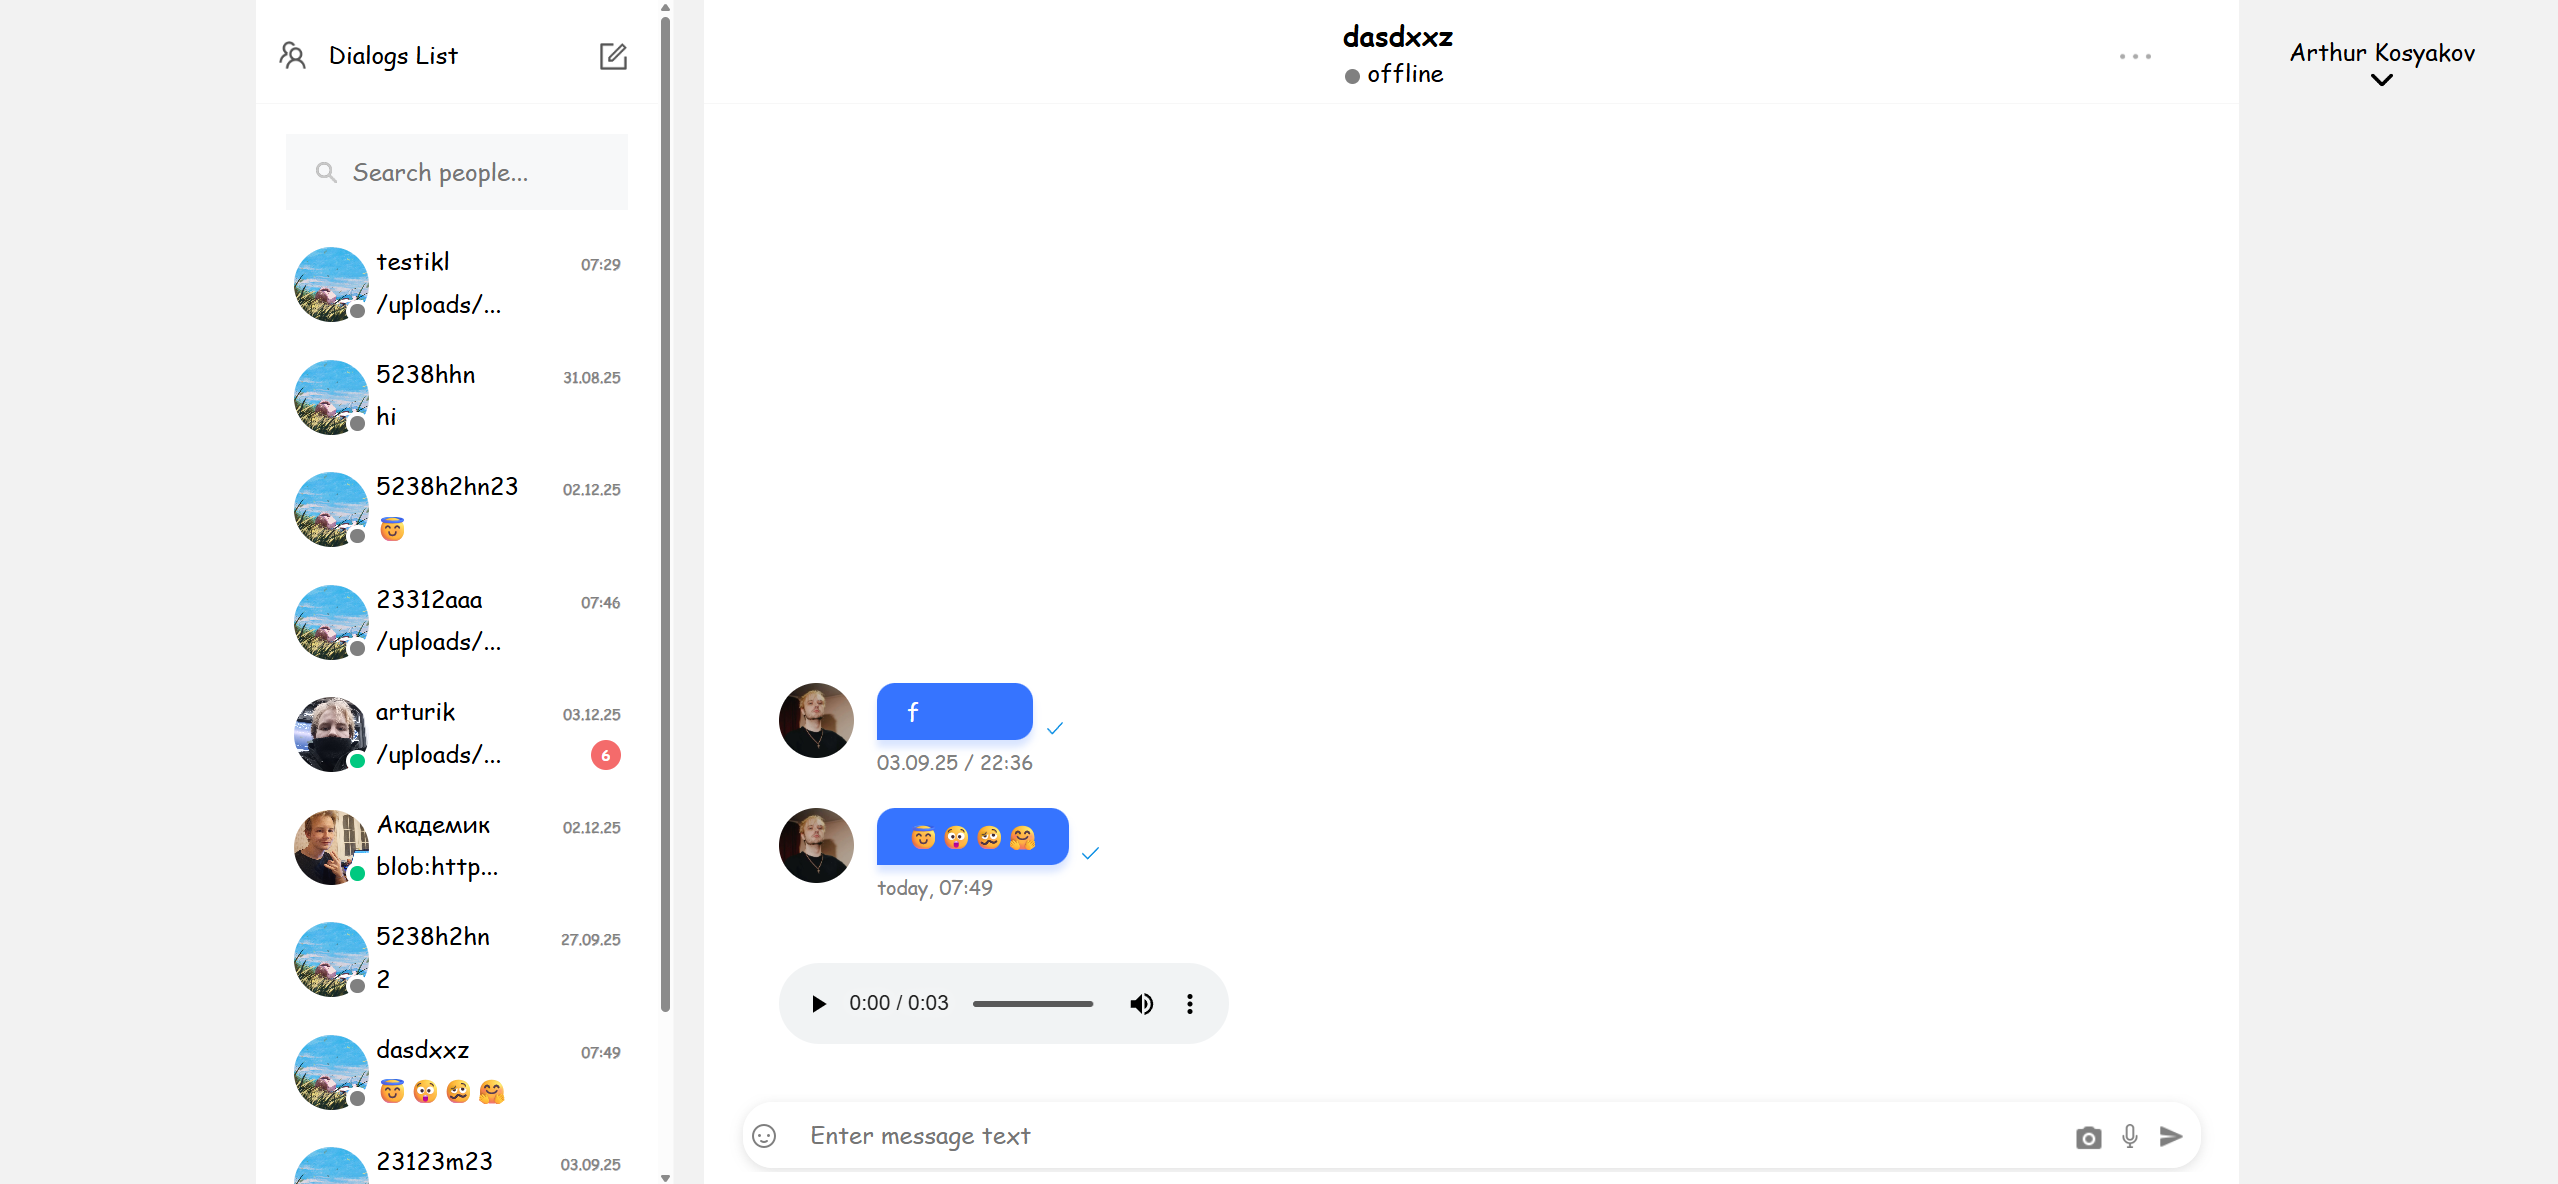
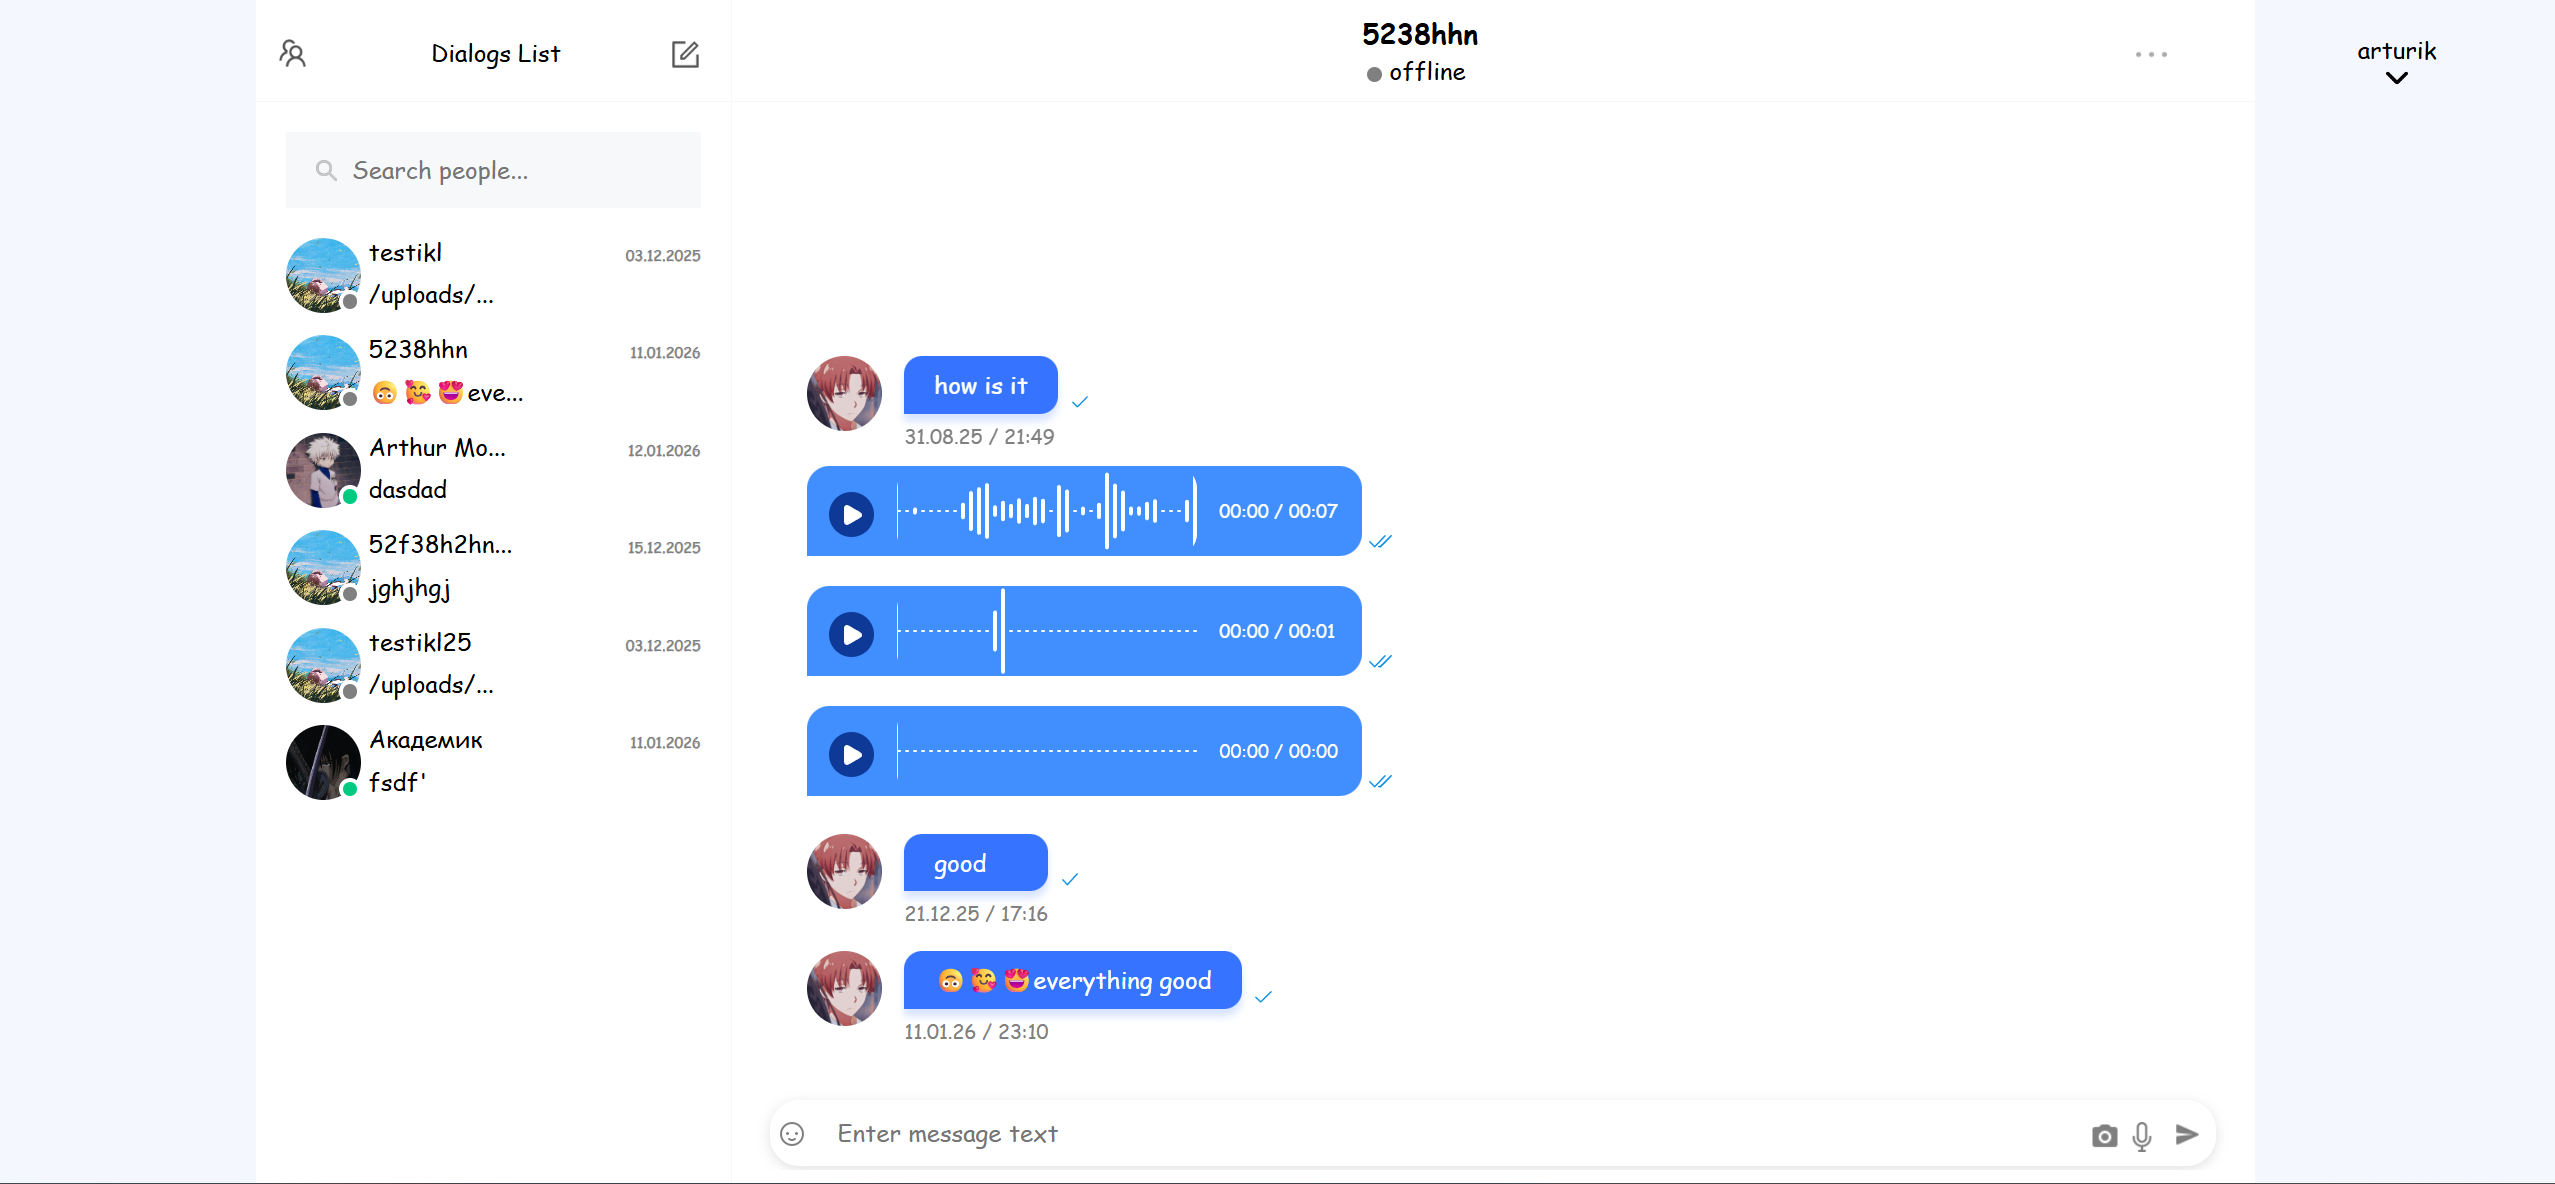
finally

diff --git a/src/store/home/home.samples.ts b/src/store/home/home.samples.ts
@@ -1,7 +1,9 @@
+import { $DialogsListStore } from '@stores/DialogsList.model';
 import { $HomeStore } from '@stores/home/home.store';
 import { sample } from "effector";
-import { dialogLoaded, socketMessageReceived } from "./home.events";
+import { dialogLoaded, messagesRead, socketMessageReceived } from "./home.events";
 import { mapSocketMessageToDialog } from './home.mappers';
+import { readDialogFx } from './home.effects';
 
 sample({
   clock: dialogLoaded,
@@ -33,4 +35,54 @@ sample({
     };
   },
   target: $HomeStore,
+});
+
+sample({
+  clock: readDialogFx.done,
+  source: $HomeStore,
+  fn: (state) => ({
+    ...state,
+    currentDialogMessages: state.currentDialogMessages.map((m) =>
+      m.creater === state.currentUser.id
+        ? { ...m, isReaded: true }
+        : m
+    ),
+  }),
+  target: $HomeStore,
+});
+
+sample({
+  clock: messagesRead,
+  source: $HomeStore,
+  filter: (state, { dialogId }) => state.currentDialog.id === dialogId,
+  fn: (state) => ({
+    ...state,
+    currentDialogMessages: state.currentDialogMessages.map((m) =>
+      m.creater !== state.currentUser.id
+        ? { ...m, isReaded: true }
+        : m
+    ),
+  }),
+  target: $HomeStore,
+});
+
+sample({
+  clock: readDialogFx.done,
+  source: {
+    dialogsState: $DialogsListStore,
+    homeState: $HomeStore,
+  },
+  fn: ({ dialogsState, homeState }) => {
+    const currentDialogId = homeState.currentDialog.id;
+
+    return {
+      ...dialogsState,
+      dialogs: dialogsState.dialogs.map((d) =>
+        d._id === currentDialogId
+          ? { ...d, unreadCount: 0 }
+          : d
+      ),
+    };
+  },
+  target: $DialogsListStore,
 });

diff --git a/src/components/Home/DialogsLIst/UserDialogs/UserItem/UserItem.tsx b/src/components/Home/DialogsLIst/UserDialogs/UserItem/UserItem.tsx
@@ -1,31 +1,22 @@
 import React from "react";
 import classnames from "classnames";
 import { Link } from "react-router-dom";
-import { readyToCreateDialogFx } from "@/store/home";
 
-const UsersSearchItem = ({
-  avatar,
-  fullName,
-  isOnline,
-  id,
-}: {
-  avatar: string;
-  fullName: string;
-  isOnline: boolean;
-  id: string;
-}) => {
+const UsersSearchItem = ({ avatar, fullName, isOnline, id }: { avatar: string; fullName: string; isOnline: boolean; id: string }) => {
+  const isItYou = id === sessionStorage.getItem("id") ? true : false;
+
   return (
-    <Link className="dialog__item__wrapper" to={`/dialogs/${id}`}>
-      <div
-        className="dialog__item"
-        onClick={() => readyToCreateDialogFx({ user: { avatar, fullName, isOnline, id }, myId: sessionStorage["id"] })}
-      >
+    <Link className="dialog__item__wrapper" to={isItYou ? '' : `/dialogs/${id}`}>
+      <div className="dialog__item">
         <div className={classnames("dialog__item-avatar", isOnline ? "dialog__item-online " : "dialog__item-offline")}>
           <img src={avatar} alt="user-img" />
         </div>
         <div className="dialog__item-wrapper">
           <div className="dialog__item-header">
             <span className="dialog__item-name">{fullName.length < 12 ? fullName : fullName.substr(0, 11) + "..."}</span>
+          </div>
+          <div className="dialog__item-footer">
+            <span style={{color: "grey"}} className="dialog__item-text">{isItYou ? `It's you. Good Luck!` : null}</span>
           </div>
         </div>
       </div>

diff --git a/src/store/DialogsList.model.ts b/src/store/DialogsList.model.ts
@@ -2,6 +2,20 @@ import { createEffect, createStore } from "effector";
 import { DialogsApi } from "@api/DialogsApi";
 import { DialogsListStoreTypes, IDialog } from "@/types/Home.types";
 
+const mergeDialogs = (prev: IDialog[], incoming: IDialog[]): IDialog[] => {
+  const map = new Map<string, IDialog>();
+
+  prev.forEach((d) => {
+    map.set(d._id, d);
+  });
+
+  incoming.forEach((d) => {
+    map.set(d._id, d);
+  });
+
+  return Array.from(map.values()).sort((a, b) => new Date(b.lastMessageDate ?? 0).getTime() - new Date(a.lastMessageDate ?? 0).getTime());
+};
+
 export const createDialogFx = createEffect(async ({ id1, id2 }: { id1: string; id2: string }) => {
   return await DialogsApi.create({ id_1: id1, id_2: id2 });
 });
@@ -23,11 +37,13 @@ export const $DialogsListStore = createStore<DialogsListStoreTypes>({
   dialogs: [],
   dialogsSearchPage: 0,
 })
-  .on(loadInitialDialogsFx.doneData, (_, { dialogs }) => ({ dialogs, dialogsSearchPage: 1, initialisedDialogs: true }))
-  .on(loadMoreDialogsFx.doneData, (state, { dialogs }) => {
-    return {
-      ...state,
-      dialogs: [...state.dialogs, ...dialogs],
-      dialogsSearchPage: state.dialogsSearchPage + 1,
-    };
-  });
+  .on(loadInitialDialogsFx.doneData, (_, { dialogs }) => ({
+    dialogs: mergeDialogs([], dialogs),
+    dialogsSearchPage: 1,
+    initialisedDialogs: true,
+  }))
+  .on(loadMoreDialogsFx.doneData, (state, { dialogs }) => ({
+    ...state,
+    dialogs: mergeDialogs(state.dialogs, dialogs),
+    dialogsSearchPage: state.dialogsSearchPage + 1,
+  }));

diff --git a/src/utils/dateFormatter.tsx b/src/utils/dateFormatter.tsx
@@ -24,20 +24,6 @@ export const dateFormatter = (date: string) => {
   }
 };
 
-export const LastMessageDateFormatter = (date: string) => {
-  const messageDay = dayjs(date).dayOfYear();
-  const currentDay = dayjs().dayOfYear();
-  const messageYear = dayjs(date).year();
-  const currentYear = dayjs().year();
-
-  if (messageDay === currentDay && messageYear === currentYear) {
-    return dayjs(date).format("HH:mm");
-  }
-  else {
-    return dayjs(date).format("DD.MM.YY");
-  }
-};
-
 export function formatTimeVoiceMessages(seconds: number) {
   if (!seconds || Number.isNaN(seconds)) return "00:00";
 
@@ -45,4 +31,31 @@ export function formatTimeVoiceMessages(seconds: number) {
   const s = Math.floor(seconds % 60);
 
   return `${String(m).padStart(2, "0")}:${String(s).padStart(2, "0")}`;
+}
+
+export function formatDialogDate(date: Date) {
+  const now = new Date();
+
+  const isToday =
+    date.toDateString() === now.toDateString();
+
+  const isYesterday =
+    new Date(now.setDate(now.getDate() - 1)).toDateString() ===
+    date.toDateString();
+
+  if (isToday) {
+    return date.toLocaleTimeString("en-EN", {
+      hour: "2-digit",
+      minute: "2-digit",
+    });
+  }
+
+  if (isYesterday) {
+    return "yesterday";
+  }
+
+  return date.toLocaleDateString("en-EN", {
+    day: "numeric",
+    month: "short",
+  });
 }

diff --git a/src/components/Home/DialogsLIst/UserDialogs/DialogItem/DialogItem.tsx b/src/components/Home/DialogsLIst/UserDialogs/DialogItem/DialogItem.tsx
@@ -4,6 +4,7 @@ import { Link } from "react-router-dom";
 import React from "react";
 import { initialiseDialogFx } from "@/store/home";
 import { $HomeStore } from "@/store/home";
+import { formatDialogDate } from "@/utils/dateFormatter";
 
 const DialogItem = ({
   avatar,
@@ -26,7 +27,7 @@ const DialogItem = ({
 
   const userName = fullName ? (fullName.length > 9 ? fullName.slice(0, 9) + "..." : fullName) : "Loading...";
   const convertedLastMessage = lastMessage && lastMessage.length > 10 ? lastMessage.substr(0, 9) + "..." : lastMessage;
-  const date = new Date(lastMessageDate);
+  const convertedDate = formatDialogDate(new Date(lastMessageDate))
 
   return (
     <Link className="dialog__item__wrapper" to={`/dialogs/${_id}`}>
@@ -46,7 +47,7 @@ const DialogItem = ({
         <div className="dialog__item-wrapper">
           <div className="dialog__item-header">
             <span className="dialog__item-name">{userName}</span>
-            <span className="dialog__item-time">{date.toLocaleDateString()}</span>
+            <span className="dialog__item-time">{convertedDate}</span>
           </div>
           <div className="dialog__item-footer">
             <span className="dialog__item-text">{convertedLastMessage}</span>

diff --git a/src/components/Home/Dialog/Content/Content.tsx b/src/components/Home/Dialog/Content/Content.tsx
@@ -1,10 +1,12 @@
-import { useState } from "react";
+import { useEffect, useState } from "react";
 import { MessagesContainer } from "./Messages/MessagesContainer";
 import { SendMessage } from "./SendMessage/SendMessage";
 import EmojiPicker, { EmojiClickData } from "emoji-picker-react";
 import "./Content.scss";
+import { messagesRead, readDialogFx } from "@/store/home";
+import { getSocket } from "@/socket";
 
-export const Content = ({ loading}: { loading: boolean;}) => {
+export const Content = ({ loading, dialogId, userId }: { loading: boolean; dialogId: string; userId: string | null }) => {
   const [showEmojiPicker, setShowEmojiPicker] = useState(false);
   const [inputValue, setInputValue] = useState("");
 
@@ -15,6 +17,17 @@ export const Content = ({ loading}: { loading: boolean;}) => {
   const toggleEmojiPicker = () => {
     setShowEmojiPicker((prev) => !prev);
   };
+
+  useEffect(() => {
+    if (!dialogId || !userId) return;
+
+    const socket = getSocket();
+    socket.on("messages:read", ({ dialogId }) => {
+      messagesRead({ dialogId });
+    });
+
+    readDialogFx({ dialogId, userId });
+  }, [dialogId, userId]);
 
   return (
     <div className="content">

diff --git a/src/components/Auth/Login/Login.tsx b/src/components/Auth/Login/Login.tsx
@@ -17,14 +17,12 @@ export const Login = ({ errors, handleChange, values, touched }: FormikProps<For
 
   const passwordErrors =
     isCorrectLogin === false
-      ? "Invalid Login Or Password" // если пользователь ввел неправильно логин или пароль
-      : errors.password && touched.password // иначе вывести ошибку из формика если прикоснулся
+      ? "Invalid Login Or Password" 
+      : errors.password && touched.password
       ? errors.password
       : "";
 
   const emailIsErrorClassName = errors.email && touched.email ? "input__error" : touched.email && "input__valid";
-
-  // при классе input__valid добавляется галочка к полю, поэтому нужна проверка на touched
 
   const passwordIsErrorClassName = errors.password && touched.password ? "input__error" : touched.password && "input__valid";
 

diff --git a/src/store/Login.model.ts b/src/store/Login.model.ts
@@ -10,7 +10,6 @@ export const $LoginStore = createStore<LoginStoreTypes>({
   isChecked: false,
   isCorrectLogin: null,
   myUserData: {
-    // данные самого залогиненного пользователя
     id: "",
     avatar: "",
     name: "",
@@ -68,7 +67,6 @@ $LoginStore.on(LoginFx.done, (state, { result }) => {
       isAuth: true,
       isCorrectLogin: true,
       myUserData: {
-        // данные самого залогиненного пользователя
         id: result.data.id,
         avatar: result.data.avatar,
         name: result.data.fullName,
@@ -89,7 +87,6 @@ $LoginStore.on(LoginFx.done, (state, { result }) => {
       isChecked: true,
 
       myUserData: {
-        // данные самого залогиненного пользователя
         id: data.id,
         avatar: data.avatar,
         name: data.fullName,

diff --git a/src/store/home/home.effects.ts b/src/store/home/home.effects.ts
@@ -37,8 +37,6 @@ export const loadDialogFx = createEffect(async (id: string): Promise<void> => {
   }
 }); 
 
-// нужен, когда мы находимся уже на урле диалога, чтобы зафиксировать и отреагировать на загрузку этого диалога
-
 export const initialiseDialogFx = createEffect(async ({ userId, myId, page }: initDialogTypes) => {
   if (!myId || !userId) return;
 
@@ -87,4 +85,8 @@ export const onScrollLoaderMessages = createEffect(async ({ page, dialogId, myId
     console.error("Error loading messages:", error);
     return null;
   }
+});
+
+export const readDialogFx = createEffect(async ({dialogId, userId}: {dialogId: string, userId: string}) => {
+  await MessagesApi.readDialogMessages({dialogId, userId});
 });

diff --git a/src/components/Profile/OpenedProfile.tsx b/src/components/Profile/OpenedProfile.tsx
@@ -13,12 +13,10 @@ export const OpenedProfile = ({ isOpen, name, avatar }: OpenedProfileTypes) => {
   const [isChangingName, setIsChangingName] = useState(false);
   const [isChangingPhoto, setIsChangingPhoto] = useState(false);
   const [isChangingPassword, setIsChangingPassword] = useState(false);
-  // меняется ли в данный момент определенный блок профиля, например, меняется ли имя?
 
   const [changeNameValue, setChangeNameValue] = useState("");
   const [changeOldPasswordValue, setChangeOldPasswordValue] = useState("");
   const [changeNewPasswordValue, setChangeNewPasswordValue] = useState("");
-  // значения инпутов
 
   const changePasswordHandler = () => {
     UsersApi.changeUserPassword({

diff --git a/src/store/home/home.reducer.ts b/src/store/home/home.reducer.ts
@@ -38,12 +38,12 @@ $HomeStore
       currentDialog: {
         id: data.currentDialogID,
         isTyping: data.currentDialogTyping,
-        page: 1, // Начинаем с page 1
+        page: 1, 
         unreadedPage: 0,
         opponentId: data.currentDialogOpponentId,
       },
       currentDialogMessages: data.currentDialogMessages,
-      isDialogFullLoaded: false, // Сбрасываем при инициализации нового диалога
+      isDialogFullLoaded: false,
     };
   })
   .on(sendMessageFx.doneData, (state, data) => {

diff --git a/src/components/Home/Dialog/Dialog.tsx b/src/components/Home/Dialog/Dialog.tsx
@@ -25,6 +25,7 @@ export const Dialog = () => {
     if (dialogId) {
       const socket = getSocket();
       socket.emit("dialog:join", currentDialog.id);
+
       loadDialogFx(dialogId).then(() => setLoading(false));
     }
   }, [currentDialog.id, dialogId]);
@@ -42,7 +43,7 @@ export const Dialog = () => {
           <img src={dots} alt="dots" />
         </div>
       </div>
-      <Content loading={loading} />
+      <Content dialogId={currentDialog.id} userId={currentUser.id} loading={loading} />
     </div>
   );
 };
